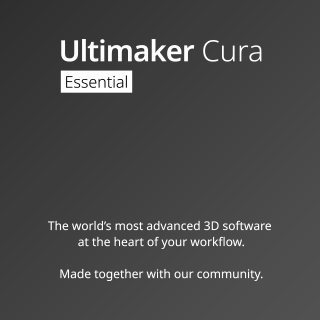
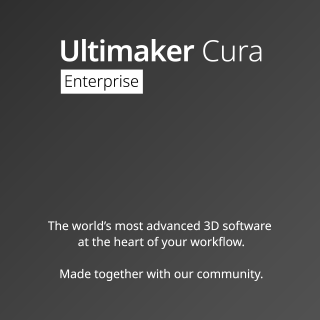
Update enterprise splash screen background
CURA-7011

Changed region(s): [[0.1875, 0.2188, 0.4688, 0.3125]]

diff --git a/cura/UI/CuraSplashScreen.py b/cura/UI/CuraSplashScreen.py
@@ -18,7 +18,7 @@ class CuraSplashScreen(QSplashScreen):
 
         if ApplicationMetadata.IsEnterpriseVersion:
             splash_image = QPixmap(Resources.getPath(Resources.Images, "cura_enterprise.png"))
-            self._version_y_offset = 32
+            self._version_y_offset = 26
         else:
             splash_image = QPixmap(Resources.getPath(Resources.Images, "cura.png"))
 
@@ -64,7 +64,7 @@ class CuraSplashScreen(QSplashScreen):
         font = QFont()  # Using system-default font here
         font.setPixelSize(18)
         painter.setFont(font)
-        painter.drawText(60, 66 + self._version_y_offset, 330 * self._scale, 230 * self._scale, Qt.AlignLeft | Qt.AlignTop, version[0])
+        painter.drawText(60, 70 + self._version_y_offset, 330 * self._scale, 230 * self._scale, Qt.AlignLeft | Qt.AlignTop, version[0])
         if len(version) > 1:
             font.setPixelSize(16)
             painter.setFont(font)
